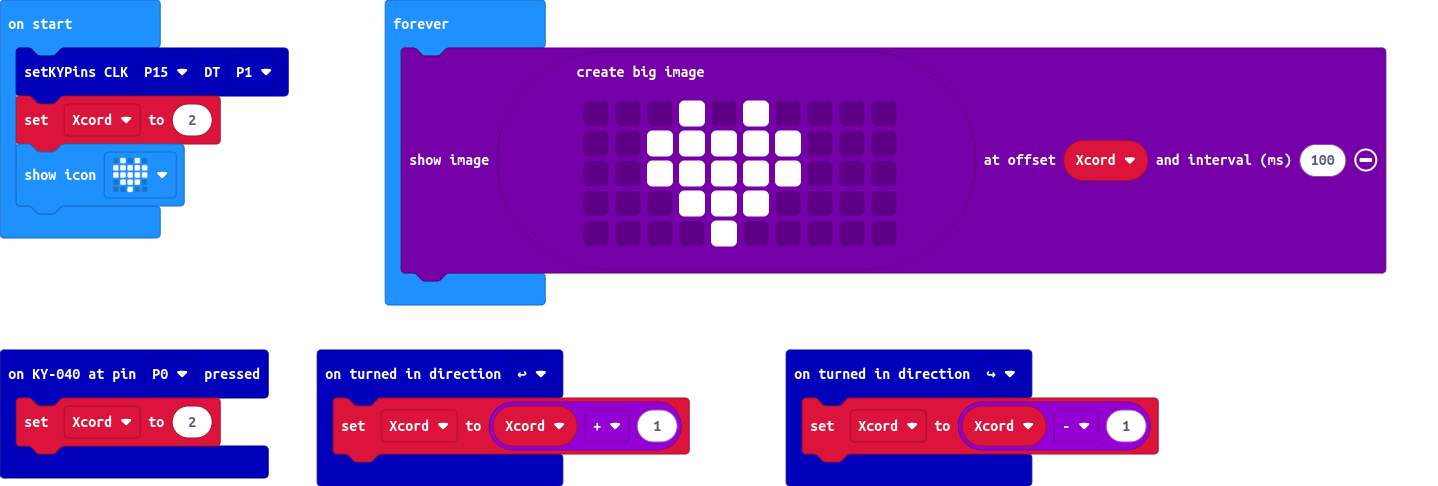
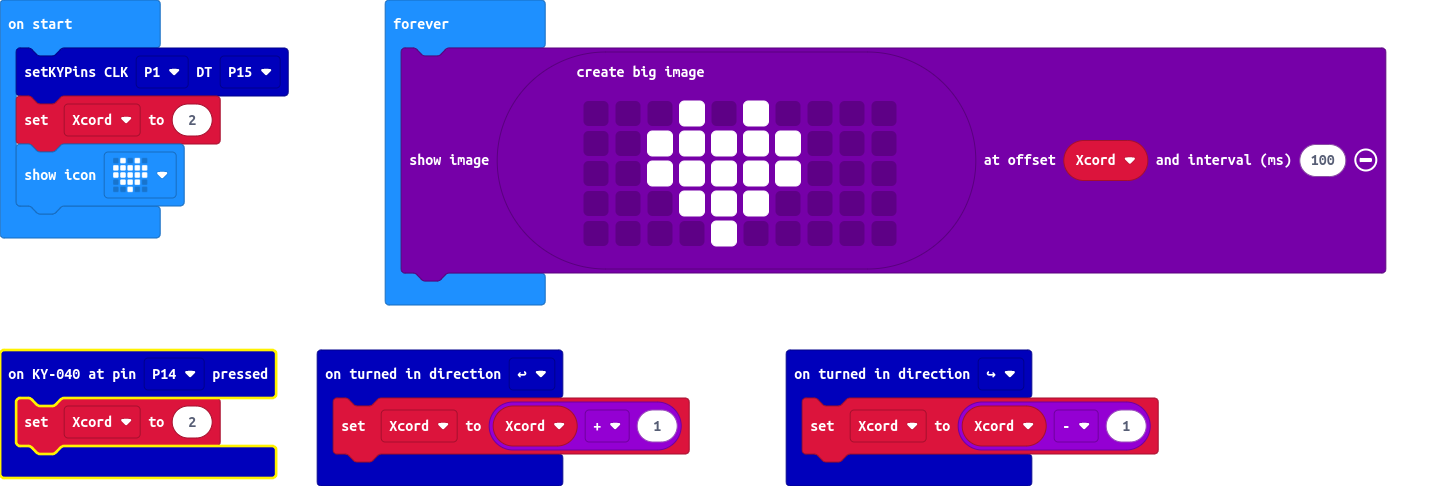
Update pxt.json, main.blocks, main.ts

Changed region(s): [[0.0, 0.7099, 0.2142, 0.9877], [0.0918, 0.1235, 0.1836, 0.1543]]

diff --git a/main.ts b/main.ts
@@ -1,4 +1,4 @@
-KY040.OnPinPressed(DigitalPin.P0, function () {
+KY040.OnPinPressed(DigitalPin.P14, function () {
     Xcord = 2
 })
 KY040.onTurned(direction.clockwise, function () {
@@ -8,7 +8,7 @@ KY040.onTurned(direction.counterclockwise, function () {
     Xcord = Xcord - 1
 })
 let Xcord = 0
-KY040.setKY040(DigitalPin.P15, DigitalPin.P1)
+KY040.setKY040(DigitalPin.P1, DigitalPin.P15)
 Xcord = 2
 basic.showIcon(IconNames.Heart)
 basic.forever(function () {
